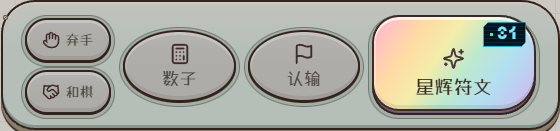
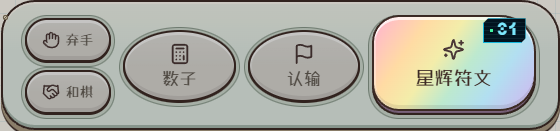
fix: center arcade skill button content

Changed region(s): [[0.7286, 0.1221, 0.9411, 0.7328]]

diff --git a/docs/system-design.html b/docs/system-design.html
@@ -55,7 +55,7 @@
 <h1>SigrikaGo 系统设计</h1>
 <h2>2026-10-29 掌机式对弈功能区正式接入</h2>
 <p><a href="./design-samples/battle-arcade-2026-10-29/tutorial.html">对弈引导功能区示意</a>直接挂载 <code>TutorialBattleScreen</code>，现与正式对弈复用五键控制舱：只有回答选项替换区域；需要继续时将数子位置改为沿用原黄色渐变、带播放图标的“继续”（预览跳过为“立即继续”），保留其余四键但禁用，单独的继续脚本选项也复用此位置。落子、等待与自动演出期间保留禁用的常规五键；弃手、数目、技能、和棋、认输教学只启用并高亮当前按钮。引导技能键仅在当前需要点击技能且有次数时显示彩虹色，其余阶段连同次数窗变灰但保留真实计数；无角色的用户视角默认只显示“技能”，玩家技能节点按实际执行配置显示剧情指定名称（如达妮娅“泡影幻梦”），结束该节点后恢复通用名称。聚焦遮罩按实际按钮／键帽的圆角轮廓开孔，消除白色边角；按钮不额外绘制焦点框，以目标原亮度与周围压暗提示操作。移动端剧情记录改为 header 中退出左侧的 44px 纯图标入口，记录浮窗向下展开，桌面保持原入口。共享教学节点新增 <code>pass</code>／<code>draw</code>，后台、工作簿、校验和本地教学执行一致；不接入网络对局操作。</p>
-<p>普通 Bright School 对弈的五个操作接入选定的掌机控制舱：技能主键使用当前角色／派生技能名称，右上 IRIS 同款字体显示剩余次数，有次数保留彩虹渐变、零次数为灰色。弃手／和棋为辅助键，数子／认输为中等权重键，键帽具有嵌入底座、边缘高光和实际下沉反馈。桌面按窗口高度为底座预留空间，手机竖屏采用双层按键；保留原操作禁用规则、确认流程与移动端高度测量。观战、普通对局死子确认、教学回答选项与特殊主题不套用新布局。见<a href="./design-samples/battle-arcade-2026-10-29/production.html">正式组件预览</a>及<a href="./system-design/06-ui-theme-mobile.md">界面契约</a>。</p>
+<p>普通 Bright School 对弈的五个操作接入选定的掌机控制舱：技能主键使用当前角色／派生技能名称，图标与文字作为一组垂直居中，右上独立定位的 IRIS 同款字体小窗显示剩余次数，有次数保留彩虹渐变、零次数为灰色。弃手／和棋为辅助键，数子／认输为中等权重键，键帽具有嵌入底座、边缘高光和实际下沉反馈。桌面按窗口高度为底座预留空间，手机竖屏采用双层按键；保留原操作禁用规则、确认流程与移动端高度测量。观战、普通对局死子确认、教学回答选项与特殊主题不套用新布局。见<a href="./design-samples/battle-arcade-2026-10-29/production.html">正式组件预览</a>及<a href="./system-design/06-ui-theme-mobile.md">界面契约</a>。</p>
 <h2>2026-10-29 对弈功能区街机按钮样板</h2>
 <p>新增独立<a href="./design-samples/battle-arcade-2026-10-29/index.html">三套交互样板</a>：圆帽街机、阶梯键组、掌机控制舱，均沿用 Bright School 暖纸、墨色轮廓和项目字体，以体量与颜色表达“技能 &gt; 数目／认输 &gt; 弃手／和棋”。对照页同时展示桌面与 390／320px 竖屏，并演示长技能名、选中、禁用、按压及确认反馈。棋盘和玩家仅为静态参照，未改正式对弈组件、规则或样式；选择方案后再接入正式布局与主题层。<a href="./design-samples/battle-arcade-2026-10-29/README.md">审查与验证说明</a>。</p>
 <p>用户选择第三套后，预览默认进入掌机控制舱修订版：主键直接显示技能名，右上次数小窗复用 IRIS 的 WuWa／点阵宋体混合字体与青绿深底风格；有剩余次数时为彩虹渐变，零次数为灰色，对手回合仅禁用操作。五键均支持可见下沉与回弹，并覆盖快速点击、触摸、键盘和取消输入；长名在 320px 下完整换行。此轮仍为独立样板细化。</p>
@@ -5494,7 +5494,7 @@
 <p>---</p>
 <h1>UI 主题、移动端与交互体验</h1>
 <h2>掌机式对弈操作区（2026-10-29）</h2>
-<p><code>ActionBar</code> 的普通玩家分支使用 <code>battle-arcade-controls</code>，五个原操作和回调不变。<code>RoomBattleStage</code> 仍通过 <code>effectiveSkillDisplayForPlayer</code>／<code>effectiveSkillUsesForColor</code> 提供当前角色或派生技能名与次数；技能名直接进入主键，次数显示在右上 IRIS 小窗，字体复用 <code>--font-iris-mixed</code>。普通对局的正次数使用静态柔和彩虹渐变，零次数（含无技能模式）为灰色；对手回合等临时锁定保留次数色，但原生按钮不可操作。可访问名称包含技能名和次数，窗口数字避免重复朗读。</p>
+<p><code>ActionBar</code> 的普通玩家分支使用 <code>battle-arcade-controls</code>，五个原操作和回调不变。<code>RoomBattleStage</code> 仍通过 <code>effectiveSkillDisplayForPlayer</code>／<code>effectiveSkillUsesForColor</code> 提供当前角色或派生技能名与次数；技能名直接进入主键，图标与名称以对称上下内边距作为一组垂直居中；次数窗独立定位，不占用内容布局空间。次数显示在右上 IRIS 小窗，字体复用 <code>--font-iris-mixed</code>。普通对局的正次数使用静态柔和彩虹渐变，零次数（含无技能模式）为灰色；对手回合等临时锁定保留次数色，但原生按钮不可操作。可访问名称包含技能名和次数，窗口数字避免重复朗读。</p>
 <p>最终样式由 <code>battle-arcade-layout.css</code>、<code>battle-arcade-keys.css</code>、<code>battle-arcade-skill.css</code> 三个局部 owner 管理，在 <code>mobile-adaptive.css</code> 尾部加载，覆盖旧等宽、平面及移动端固定高度规则。普通 Bright School 使用薄荷纸底座、压入式键座、边缘高光、胶囊辅助键和椭圆次级键；局部尺寸与彩虹／IRIS 色是用户选定的功能区例外。手机两行保留至少 44px 触控区域，技能跨行；桌面普通玩家对弈与教学按视口高度限制正方形棋盘列，为底座预留空间。手机继续由 <code>useMobileDockBaseline</code> 测量实际高度，短屏可滚动到全部操作。</p>
 <p><code>ActionKey</code> 只包裹原生按钮并管理短暂按压标记，游戏回调立即执行。鼠标、触摸和 Enter／Space 让键帽下沉，快速释放保留 120ms 可见反馈；离开、取消、失焦、禁用及卸载会清理状态和计时器。技能选中保留压入态；减少动态效果时移除过渡。观战／回放、普通对局死子确认、教学回答选项，以及黑化、特殊决斗与其它主题保留原布局；其它主题中的键帽 wrapper 为 <code>display: contents</code>。</p>
 <p>验证覆盖实际 <code>RoomBattleStage</code>、正式 CSS、1440×768／1920×1080 桌面及 390×844／320×568 竖屏，检查长名、字体加载、次数窗边界、棋盘比例、五键实际位移、模式锁定和特殊主题隔离。入口及证据见 <code>docs/design-samples/battle-arcade-2026-10-29/production.html</code>、<code>verify-production.mjs</code>；组件回归见 <code>ActionBar.dom.test.jsx</code>。</p>

diff --git a/src/styles/cssLayerInventory.js b/src/styles/cssLayerInventory.js
@@ -14,7 +14,7 @@ export const CSS_DEBT_BASELINE = {
   scope: "Window loading adds 1035 normalized bytes, three targeted important declarations and reduced-motion coverage in the existing empty-state owner. Ordinary button states replace three repeated selector lists with one nested state owner, add complete press/focus/disabled/reduced-motion rules, and retire generic icon/action motion selectors. Specialty button opt-in removes dossier, purchase and recruitment state duplication while retaining artwork and geometry. All CSS files under src/styles after the import-only split work, including the focused normal/corrupted theme-transition visual structure and reduced-motion owners, the focused corrupted-duel atmosphere, panel, timer, control, icon, secondary-surface, mobile-readability, portaled system-log, lifecycle, replay/result, and dialogue/fake-skill presentation owners, the ten focused production IRIS Database V2 entry/shell/greeting/portrait/archive/record/theme/typography owners with image-free desktop/mobile art reservations and the scoped Dotted Songti Circle plus WuWa Latin/numeric font stack, the shared and Bright School character-music-player subdomains with the transparent hand-painted radio shell, contained alpha-safe asset geometry, and painted-circle control alignment, admin story node settings CSS and story workbook import feedback, frontend layout polish contracts including story-player padding, game-mode icon watermark/player-plaque/nameplate/utility image contracts, the asset-owned open-starlight rune-ink Semantic Ignition with a persistent rim, separated open-center left-to-right filaments/contour streams, and paired right-tail streaks, Danya off-center pearlescent dream bubble, and Aemeath paper-flight beacon nameplate shells plus their reduced-motion owners, Aemeath exact-ID ice-white username treatment, separated paper-wake and perimeter traces, paired right-tail light, the board-owned Aemeath rainbow grid-trace and particle owners with their reduced-motion fallback, the owned-only holographic memorial-ticket action, isolated Pink Cyber Angel sprite-atlas recruitment cinematic, player-mailbox text-only low-chrome list, completion-state dimming, quiet paper reader, independent item/coin tiles, portaled shop-style item detail, quantity/claimed overlays, light-green mail toast, claimed-attachment action state, and final post-theme readability contract, stable desktop utility-art tilt with direction-preserving hover rotation and scale compensation, tutorial reply-option overflow containment, mobile announcement badge anchoring, mobile utility-image feedback containment, the semantic Bright School login header with its responsive mascot-panel composition and extended layered paper-rule shelf, the dedicated 900px mobile-layout login mascot lockup owner plus accessible auth field, password-visibility, pending, short-height scrolling, and reduced-motion rules, the shared orange preload fill-flow, borderless warm-glow, upright endpoint-glide, and disabled password-toggle centering owners, the shared/theme/final-mobile Zahira shop window plus card-layout isolation, compact-height, badge, desktop raster background, dedicated portrait raster background, and enlarged mascot-copy owner files, the deep-red theatrical costume storefront with a separate card/art owner, portaled wardrobe dialog, split responsive wardrobe layout, Bright School costume overlay owners, and home-scoped portrait width guard, cloud-deployment mobile floating layer tokens, transform-surface compositor hints, semantic home/window title typography, the full-width 16px watch-mode tabs with one-em room-count spacing, the final Bright School practice-entry rotation, reduced-motion behavior, and home-utility hard-shadow parity owner, the shared skill-trait description popover, admin glossary, mobile character-detail scrolling owner rules, the scoped Bright School root scrollbar, final portrait modal shadow-gutter, admin neutral scrollbar owners, and the Bright School unobtained-roster monochrome CRT surface, hidden-intel monitor, and shared signal-fault motion owners.",
   metrics: {
     totalFiles: 782,
-    totalBytes: 1809331,
+    totalBytes: 1809326,
     importantCount: 10860,
     importantFiles: 429,
     hardcodedHexCount: 2572,
@@ -23,6 +23,7 @@ export const CSS_DEBT_BASELINE = {
     highZIndexFiles: 7
   },
   featureDeltas: [
+    "2026-10-29: center skill icon/name with symmetric vertical padding; the absolute counter is independent. Exact delta -5 normalized bytes; no other CSS metrics change.",
     "2026-10-29: tutorial Continue reuses the original warm yellow; inactive tutorial skill and its counter reuse the existing spent palette. Exact delta 266 normalized bytes; no new colors, important declarations, owners or motion.",
     "2026-10-29: tutorial buttons use spotlight guidance without outer focus frames or option halos; exact delta {\"totalBytes\":75,\"importantCount\":1}. No new colors, owners or motion.",
     "2026-10-29: tutorial reuses the arcade pod; includes the input-focus mask owner, bounded header log, target ring and full-width portrait choices. Exact scoped delta {\"totalFiles\":2,\"totalBytes\":1862,\"importantCount\":21,\"importantFiles\":1,\"hardcodedHexCount\":0,\"mediaFiles\":1,\"reducedMotionFiles\":0,\"highZIndexFiles\":0}. No new colors or motion.",

diff --git a/src/styles/mobile-adaptive/battle-arcade-skill.css b/src/styles/mobile-adaptive/battle-arcade-skill.css
@@ -6,7 +6,7 @@
     & .action-keycap {
       flex-direction: column;
       gap: 5px;
-      padding: 28px 9px 10px;
+      padding: 10px 9px;
       background: linear-gradient(125deg, #ffb6ce 2%, #ffdba4 25%, #f3edaa 41%, #bde9cf 57%, #b2dff1 75%, #cebaf0 97%);
       color: var(--arcade-ink);
     }
@@ -18,7 +18,7 @@
     }
     & .skill-use-window {
       position: absolute;
-      top: 5px;
+      top: 1px;
       right: 8px;
       display: flex;
       align-items: center;

diff --git a/docs/system-design.md b/docs/system-design.md
@@ -4,7 +4,7 @@
 
 [对弈引导功能区示意](./design-samples/battle-arcade-2026-10-29/tutorial.html)直接挂载 `TutorialBattleScreen`，现与正式对弈复用五键控制舱：只有回答选项替换区域；需要继续时将数子位置改为沿用原黄色渐变、带播放图标的“继续”（预览跳过为“立即继续”），保留其余四键但禁用，单独的继续脚本选项也复用此位置。落子、等待与自动演出期间保留禁用的常规五键；弃手、数目、技能、和棋、认输教学只启用并高亮当前按钮。引导技能键仅在当前需要点击技能且有次数时显示彩虹色，其余阶段连同次数窗变灰但保留真实计数；无角色的用户视角默认只显示“技能”，玩家技能节点按实际执行配置显示剧情指定名称（如达妮娅“泡影幻梦”），结束该节点后恢复通用名称。聚焦遮罩按实际按钮／键帽的圆角轮廓开孔，消除白色边角；按钮不额外绘制焦点框，以目标原亮度与周围压暗提示操作。移动端剧情记录改为 header 中退出左侧的 44px 纯图标入口，记录浮窗向下展开，桌面保持原入口。共享教学节点新增 `pass`／`draw`，后台、工作簿、校验和本地教学执行一致；不接入网络对局操作。
 
-普通 Bright School 对弈的五个操作接入选定的掌机控制舱：技能主键使用当前角色／派生技能名称，右上 IRIS 同款字体显示剩余次数，有次数保留彩虹渐变、零次数为灰色。弃手／和棋为辅助键，数子／认输为中等权重键，键帽具有嵌入底座、边缘高光和实际下沉反馈。桌面按窗口高度为底座预留空间，手机竖屏采用双层按键；保留原操作禁用规则、确认流程与移动端高度测量。观战、普通对局死子确认、教学回答选项与特殊主题不套用新布局。见[正式组件预览](./design-samples/battle-arcade-2026-10-29/production.html)及[界面契约](./system-design/06-ui-theme-mobile.md)。
+普通 Bright School 对弈的五个操作接入选定的掌机控制舱：技能主键使用当前角色／派生技能名称，图标与文字作为一组垂直居中，右上独立定位的 IRIS 同款字体小窗显示剩余次数，有次数保留彩虹渐变、零次数为灰色。弃手／和棋为辅助键，数子／认输为中等权重键，键帽具有嵌入底座、边缘高光和实际下沉反馈。桌面按窗口高度为底座预留空间，手机竖屏采用双层按键；保留原操作禁用规则、确认流程与移动端高度测量。观战、普通对局死子确认、教学回答选项与特殊主题不套用新布局。见[正式组件预览](./design-samples/battle-arcade-2026-10-29/production.html)及[界面契约](./system-design/06-ui-theme-mobile.md)。
 
 ## 2026-10-29 对弈功能区街机按钮样板
 

diff --git a/.trellis/spec/frontend/battle-arcade-controls.md b/.trellis/spec/frontend/battle-arcade-controls.md
@@ -11,7 +11,7 @@ Bright School player ActionBar, including tutorial reuse of the same five keys. 
 
 `battle-arcade-layout.css`, `battle-arcade-keys.css`, and `battle-arcade-skill.css` load near the end of mobile-adaptive.css, before the tutorial-specific owner. Their explicit repeated-theme owner wins over ordinary button states and old mobile equal-column/flat resets. Local physical cap radii, pastel rainbow and IRIS counter colors are user-approved exceptions, not global tokens. The counter uses existing `--font-iris-mixed` (WuWa digits + Dotted Songti fallback), while names use shared UI typography.
 
-Desktop has auxiliary left rail, two medium ovals and right skill paddle. Reserve the pod's height by bounding the square board column against desktop viewport height. Portrait keeps count/resign above pass/draw with a two-row skill paddle. The existing `useMobileDockBaseline` continues measuring actual action height; preserve its scrolling and board ratio. All native targets are at least 44px; long names wrap and omit the decorative skill icon.
+Desktop has auxiliary left rail, two medium ovals and right skill paddle. Reserve the pod's height by bounding the square board column against desktop viewport height. Portrait keeps count/resign above pass/draw with a two-row skill paddle. The existing `useMobileDockBaseline` continues measuring actual action height; preserve its scrolling and board ratio. All native targets are at least 44px; long names wrap and omit the decorative skill icon. Center the visible icon and label together with symmetric vertical padding; the absolutely positioned count window must not push this group downward.
 
 ## Verification
 `ActionBar.test.js` and `ActionBar.dom.test.jsx` cover mode locks, all callbacks, effective display updates, zero/turn distinction, press cleanup and alternate bars. `verify-production.mjs` runs real RoomBattleStage with the full theme cascade at 1440×768, 1920×1080, 390×844 and 320×568; check bounds, square board, names/counter, five measured downstrokes, touch, reduced-motion and protected-theme exclusions. Do not validate only the isolated sample CSS.

diff --git a/docs/system-design/06-ui-theme-mobile.md b/docs/system-design/06-ui-theme-mobile.md
@@ -2,7 +2,7 @@
 
 ## 掌机式对弈操作区（2026-10-29）
 
-`ActionBar` 的普通玩家分支使用 `battle-arcade-controls`，五个原操作和回调不变。`RoomBattleStage` 仍通过 `effectiveSkillDisplayForPlayer`／`effectiveSkillUsesForColor` 提供当前角色或派生技能名与次数；技能名直接进入主键，次数显示在右上 IRIS 小窗，字体复用 `--font-iris-mixed`。普通对局的正次数使用静态柔和彩虹渐变，零次数（含无技能模式）为灰色；对手回合等临时锁定保留次数色，但原生按钮不可操作。可访问名称包含技能名和次数，窗口数字避免重复朗读。
+`ActionBar` 的普通玩家分支使用 `battle-arcade-controls`，五个原操作和回调不变。`RoomBattleStage` 仍通过 `effectiveSkillDisplayForPlayer`／`effectiveSkillUsesForColor` 提供当前角色或派生技能名与次数；技能名直接进入主键，图标与名称以对称上下内边距作为一组垂直居中；次数窗独立定位，不占用内容布局空间。次数显示在右上 IRIS 小窗，字体复用 `--font-iris-mixed`。普通对局的正次数使用静态柔和彩虹渐变，零次数（含无技能模式）为灰色；对手回合等临时锁定保留次数色，但原生按钮不可操作。可访问名称包含技能名和次数，窗口数字避免重复朗读。
 
 最终样式由 `battle-arcade-layout.css`、`battle-arcade-keys.css`、`battle-arcade-skill.css` 三个局部 owner 管理，在 `mobile-adaptive.css` 尾部加载，覆盖旧等宽、平面及移动端固定高度规则。普通 Bright School 使用薄荷纸底座、压入式键座、边缘高光、胶囊辅助键和椭圆次级键；局部尺寸与彩虹／IRIS 色是用户选定的功能区例外。手机两行保留至少 44px 触控区域，技能跨行；桌面普通玩家对弈与教学按视口高度限制正方形棋盘列，为底座预留空间。手机继续由 `useMobileDockBaseline` 测量实际高度，短屏可滚动到全部操作。
 
